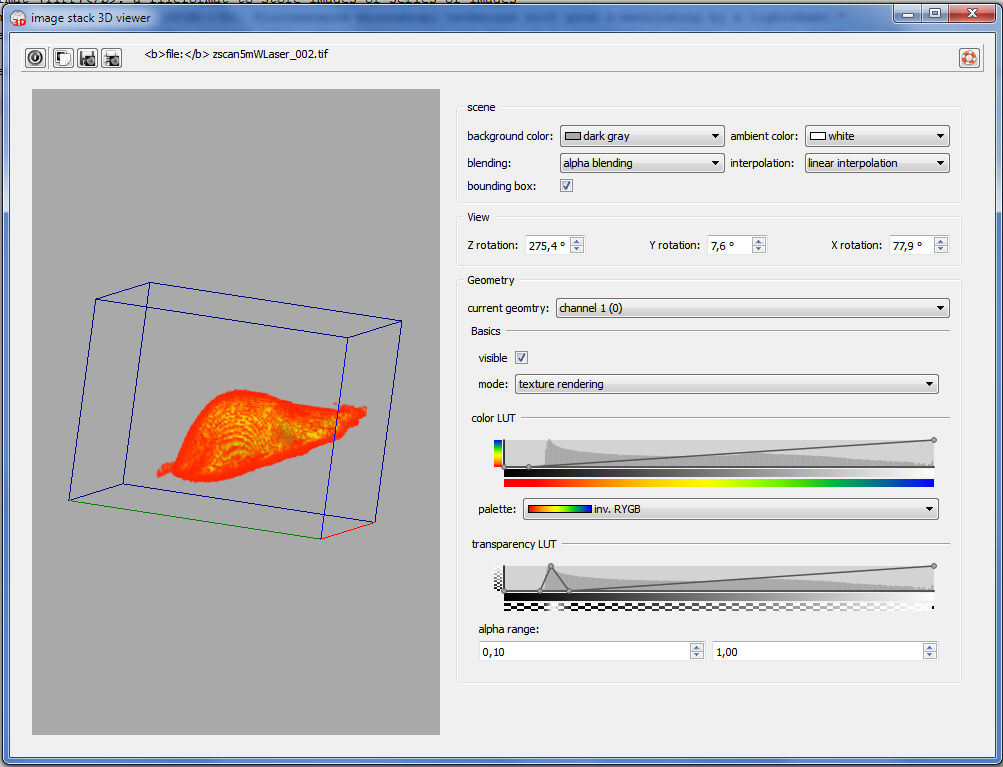
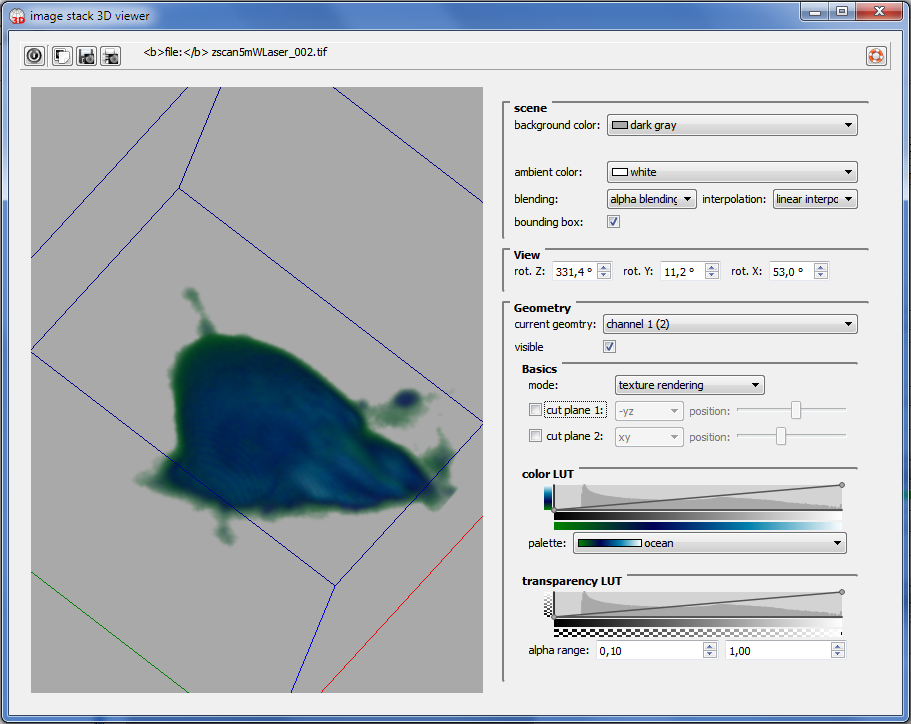
QuickFit3/image_stack:   - added cut planes to 3D viewer   - improved documentation
git-svn-id: https://www.dkfz.de/svn/B040/FCSTOOLS/trunk/QuickFit3@2862 0d8be23c-4016-4ca5-a69c-3788035ecc6c

diff --git a/plugins/imagestack/help/3dviewer.html b/plugins/imagestack/help/3dviewer.html
@@ -46,12 +46,16 @@ On the right hand side, several widgets allow to set the properties of the 3D vi
 </ul>
 Other properties apply to each 3D volume datset separately. These are grouped in the <b>"Geometry" group</b>. First select the datset to edit in <b>"current geometry", then edit its properties below:</b>
 <ul>
-  <li><b>Basics | visible:</b> switches the selected volume data set on and off</li>
+  <li><b>visible:</b> switches the selected volume data set on and off</li>
   <li><b>Basics | mode:</b> sets the rendering mode: currently only "texture rendering" is available (see <a href="#intro">introduction</a>)</li>
-  <li><b>Basics | color LUT:</b> allows to edit the transfer function (lookup table/LUT) between pixel value and displayed color. Below the LUT editor, you can select the color palette used for the display. The LUT itself is a piecewise linear function, that you can edit by dragging its nodes (small circles) over the editor with the mouse (left button). Double-clicking an existing node deletes it and double-clicking in empty space will add a node. A histogram of the 3D stack's values is shown in the back of the LUT editor (in logarithmic scalig on the y-axis!)</li>
-  <li><b>Basics | color LUT | palette:</b> allows to select a color palette for the 3D volume data.</li>
-  <li><b>Basics | transparency LUT:</b> allows to edit the transfer function (lookup table/LUT) between pixel value and alpha value used for display. The LUT itself is a piecewise linear function, that you can edit by dragging its nodes (small circles) over the editor with the mouse (left button). Double-clicking an existing node deletes it and double-clicking in empty space will add a node. A histogram of the 3D stack's values is shown in the back of the LUT editor (in logarithmic scalig on the y-axis!)</li>
-  <li><b>Basics  | transparency LUT| alpha range:</b> These values allow to limit the range of pixels to display. Each value ranges from 0 to 1, where 0 represents the lowest pixel value in the image stack and 1 the highest pixel value. So, if the lower range is 0.1, all pixels below 10% of the maximum pixel values are invisible. the same works for the upper rande, i.e. if it is set to 0.9 all pixel with an intensity above 90% of the maximum pixel intensity are set invisible/transparent. </li>
+  <li><b>Basics | cut plane 1/2:</b> These controls allow to cut the 3D volume at different planes. The combobox allows to select the plane to sue for cutting and its direction (cut if left/right of plane, indicated as +xy/-xy) and the position in the stack (slider). Here are two examples with and without cut planes:
+  <center>
+	<a name="3dviewer_pic005"><img src="./pic/3dviewer_pic005.png" border="1">    <a name="3dviewer_pic006"><img src="./pic/3dviewer_pic006.png" border="1">
+</center></li>
+  <li><b>color LUT:</b> allows to edit the transfer function (lookup table/LUT) between pixel value and displayed color. Below the LUT editor, you can select the color palette used for the display. The LUT itself is a piecewise linear function, that you can edit by dragging its nodes (small circles) over the editor with the mouse (left button). Double-clicking an existing node deletes it and double-clicking in empty space will add a node. A histogram of the 3D stack's values is shown in the back of the LUT editor (in logarithmic scalig on the y-axis!)</li>
+  <li><b>color LUT | palette:</b> allows to select a color palette for the 3D volume data.</li>
+  <li><b>transparency LUT:</b> allows to edit the transfer function (lookup table/LUT) between pixel value and alpha value used for display. The LUT itself is a piecewise linear function, that you can edit by dragging its nodes (small circles) over the editor with the mouse (left button). Double-clicking an existing node deletes it and double-clicking in empty space will add a node. A histogram of the 3D stack's values is shown in the back of the LUT editor (in logarithmic scalig on the y-axis!)</li>
+  <li><b>transparency LUT| alpha range:</b> These values allow to limit the range of pixels to display. Each value ranges from 0 to 1, where 0 represents the lowest pixel value in the image stack and 1 the highest pixel value. So, if the lower range is 0.1, all pixels below 10% of the maximum pixel values are invisible. the same works for the upper rande, i.e. if it is set to 0.9 all pixel with an intensity above 90% of the maximum pixel intensity are set invisible/transparent. </li>
 </ul>
 </p>
 

diff --git a/plugins/imagestack/help/image_stack.html b/plugins/imagestack/help/image_stack.html
@@ -2,9 +2,49 @@
 <html>
   <head>
   <meta http-equiv="content-type" content="text/html; charset=windows-1250">
-  <title>Plugin Online-Help</title>
+  <title>Plugin Image Stack</title>
   </head>
   <body>
 	$$qf_commondoc_header.start$$ $$qf_commondoc_header.end$$ 
+	<h2>Introduction</h2>
+	<p>This plugin allows to view 2D/3D/4D images. It represents the image stacks as:
+	<ul>
+	  <li>2D: a single frame (width &times; height) with one color channel</li>
+	  <li>3D: a single frame (width &times; height) with several color channels</li>
+	  <li>3D: a set of frames (width &times; height) with one color channel</li>
+	  <li>4D: a set of frames (width &times; height) with several color channels</li>
+	</ul>
+	in addition each image stack RDR may contain several separate image stacks.
+	</p>
+	
+	
+	<h2>User Interface</h2>
+	<h3>Inserting an image stack</h3>
+	<p>
+	  The plugin can load all image stack files for which a reader plugin is available (by default at least TIFF files). There are several options available in the menu <tt>Raw data Items|Image Stacks</tt>:
+	  <ul>
+	    <li><img src=":/image_stack/singlefile_stack.png"> <b>Single file image stack</b>: Loads an image stack with a single color channel from a file.  If several files are selected, each file is loaded as a separate image stack RDR.</li>
+	    <li><img src=":/image_stack/multifile_stack.png"> <b>Multi file image stack</b>: Loads a multi-channel image stack from several files (select several files when adding this type of RDR). Each file is loaded as a separate color channel.</li>
+	    <li><img src=":/image_stack/singlefile_dvh_stack.png"> <b>Horizontal DualView image stack</b>: Loads an image series acquired with a DualView optics imaging the two color channels side by side. Each image half is loaded as a color channel and if several farmes are available in the file, these are loaded as separate frames. If several files are selected, each file is loaded as a separate image stack RDR.</li>
+	    <li><img src=":/image_stack/singlefile_dvv_stack.png"> <b>Vertical DualView image stack</b>: Loads an image series acquired with a DualView optics imaging the two color channels above each other. Each image half is loaded as a color channel and if several farmes are available in the file, these are loaded as separate frames. If several files are selected, each file is loaded as a separate image stack RDR.</li>
+		
+	  </ul>
+	</p>
+	
+    <h3>RDR Editor</h3>
+	<p>
+	  The RDR editor has one main tab, which displays the image stack. The different color channels can be overlayn in different <b>channel modes</b>:
+	  <ul>
+	    <li><b>singe channel:</b> Displays a single color channel in false-colors with a selectable color palette. A second channel can be used for the alpha channel to set some pixels invisible.</li>
+	    <li><b>4-channel RGBA:</b> Here up to three color channels can be associated with the red green and blue color channel of the final image. A fourth channel can be used for alpha blending.</li>
+	  </ul>
+	  The slider below the image display allows to move through the iage stack.
+	  On the RHS of the image view, a histogram of the pixel values is displayed. It constains all channels currently displayed on the left.
+	</p>
+	<p>The Menu <tt>Mask</tt> and the widgets above the image plot allow to edit the image mask. With the rectangle, circle, ... tools you can draw selections with the mous (drag with left button) on the image display. It is also possible to select a subset of the pixels.</p>
+	
+	<h3>3D Viewer</h3>
+	This plugin also contains a <a href="3dviewer.html"><img src=":/image_stack/viewer3d.png"> 3D Viewer</a>, which can be started using the menu entry <tt>"Stack Tools | 3D Viewer"</tt>. the viewer display one stack at a time and each channel as a separate volume dataset.
+	$$see:<a href="3dviewer.html">3D Viewer Documentation</a>$$
   </body>
 </html>

diff --git a/application/help/quickfit.html b/application/help/quickfit.html
@@ -15,6 +15,7 @@ $$qf_commondoc_header.start$$  $$qf_commondoc_header.end$$
   <li>Concepts:<ol>
     <li><a href="qf3_projects.html">QuickFit $$version$$ projects / the data model</a></li>
     <li><a href="qf3_plugins.html">QuickFit $$version$$ plugins</a></li>
+    <li><a href="qf3_contact.html">Contact the Authors/Mailinglist</a></li>
   </ol></li>
   <li>Graphical User Interface:<ol>
     <li><a href="qf3_mainscreen.html">QuickFit $$version$$ main screen</a></li>
@@ -23,10 +24,10 @@ $$qf_commondoc_header.start$$  $$qf_commondoc_header.end$$
     <li><a href="qf3_evalscreen.html">Basic evaluation windows</a></li>
     <li><a href="qf3_tools.html">Tools</a></li>
     <li><a href="jkqtplotter.html">Graph plotters used in QuickFit $$version$$</a></li>
-    <li><a href="qf3_contact.html">Contact the AUthors/Mailinglist</a></li>
   </ol></li>
   <li>Additional Common Help Pages:<ol>
-        <li><a href="userfitfunctions.html">User-defined fit functions</a></li>
+    <li><a href="userfitfunctions.html">User-defined fit functions</a></li>
+    <li><a href="colorpalettes.html">User-defined color palettes for image plots</a></li>
 	<li><a href="qf3_fileformats.html">File Formats used by QuickFit $$version$$</a></li>
     <li><a href="jkqtmathtext.html">LaTeX Subset that may be rendered by QuickFit $$version$$</a></li>
 	<li><a href="qf3_qtregexp.html">Regular expressions syntax, used by QuickFit $$version$$</a></li>
